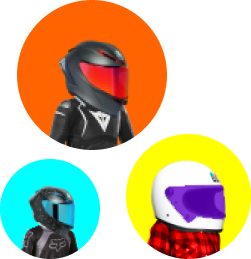
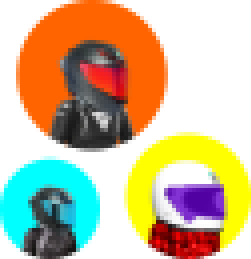
Positioned images

diff --git a/src/css/style.css b/src/css/style.css
@@ -54,3 +54,17 @@ input[type="search"]::-webkit-search-cancel-button {
     color: #888;
     font-size: .8em;
 }
+
+/********************************** M A I N **********************************/
+
+#welcome .row:nth-child(1), #welcome .row:nth-child(3){
+    height: 30%;
+}
+
+#welcome .row:nth-child(2) {
+    height: 40%;
+}
+
+.main img {
+    height: 250px;
+}

diff --git a/index.php b/index.php
@@ -21,38 +21,37 @@
         </div>
 
         <!-- Main -->
-        <div class="main col ms-2 rounded custom-shadow">
-          <div class="container-fluid h-100">
+        <div class="main col ms-2 h-100 rounded custom-shadow">
+          <div id="welcome" class="container-fluid h-100 p-3">
           <div class="row">
             <div class="col">
               <img alt="Top-left cars" src="./src/images/ts-cars.png">
             </div>
-            <div class="col"></div>
-            <div class="col">
-              <img alt="Top-right resources" src="./src/images/te-resources.png">
+            <div class="col d-flex justify-content-end">
+              <img class="img-fluid" alt="Top-right resources" src="./src/images/te-resources.png">
             </div>
           </div>
 
           <div class="row">
-            <div class="col-3">
+            <div class="col">
             </div>
-            <div class="col-6">
+            <div class="col-6 d-flex justify-content-center flex-wrap">
               <h1>KeyRace</h1>
               <h3><span>Race</span> against fast typers</h3>
               <h3>Show off your <span>speed</span></h3>
               <h3><span>Play</span> and earn now!</h3>
               <button id="start-btn" class="btn">Start</button>
             </div>
-            <div class="col-3"></div>
+            <div class="col"></div>
           </div>
 
           <div class="row">
-            <div class="col">
+            <div class="col d-flex align-items-end">
               <img alt="Bottom-left avatars" src="./src/images/bs-avatars.png">
             </div>
             <div class="col"></div>
-            <div class="col">
-              <img alt="Bottom-right cars" src="./src/images/be-cars.png">
+            <div class="col d-flex justify-content-end align-items-end">
+              <img alt="Bottom-right cars" width="250px" src="./src/images/be-cars.png">
             </div>
           </div>
         </div>
